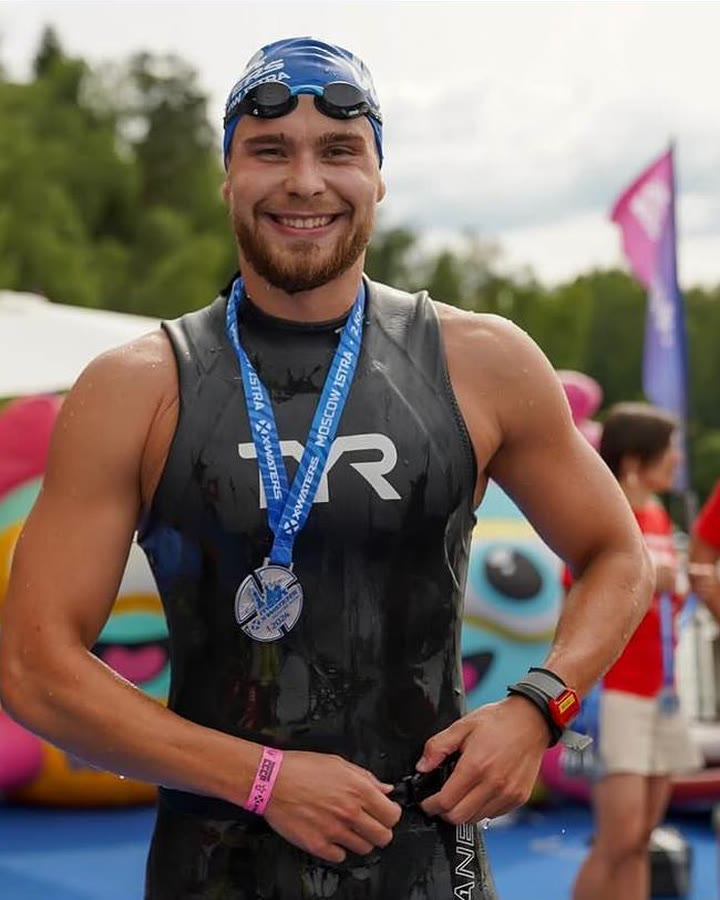
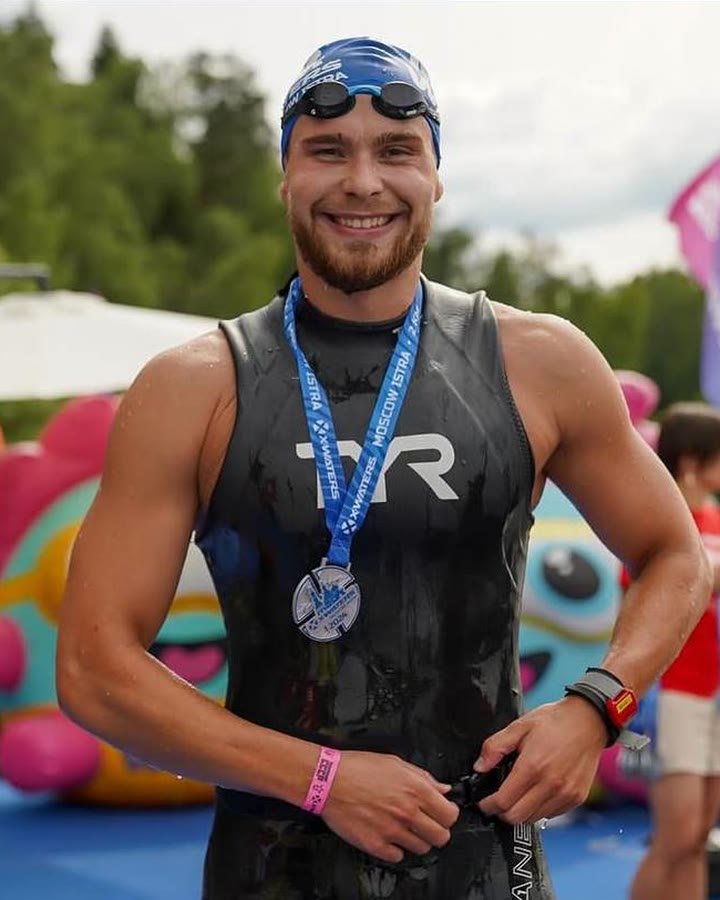
Фото: голова ровно по центру кадра

diff --git a/index.html b/index.html
@@ -20,7 +20,7 @@
   <link rel="preconnect" href="https://fonts.googleapis.com">
   <link rel="preconnect" href="https://fonts.gstatic.com" crossorigin>
   <link rel="stylesheet" href="https://fonts.googleapis.com/css2?family=Montserrat:wght@600;700&amp;display=swap">
-  <link rel="stylesheet" href="css/style.css?v=1789315581">
+  <link rel="stylesheet" href="css/style.css?v=1789319132">
   <script type="application/ld+json">
   {"@context": "https://schema.org", "@graph": [{"@type": "Person", "@id": "https://akifevav0-droid.github.io/shabarshov/#person", "name": "Анатолий Шабаршов", "jobTitle": "Тренер по плаванию", "description": "Мастер спорта по плаванию, тренер для взрослых. Групповые и персональные тренировки в Москве, подготовка к открытой воде и триатлону.", "url": "https://akifevav0-droid.github.io/shabarshov/", "image": "https://akifevav0-droid.github.io/shabarshov/img/anatoliy_hero.jpg", "sameAs": ["https://profi.ru/profile/ShabarshovAS/", "https://www.instagram.com/shabarshov_/", "https://t.me/shabarshov", "https://t.me/shabarshov_club"], "address": {"@type": "PostalAddress", "addressLocality": "Москва", "addressCountry": "RU"}, "alumniOf": ["Училище олимпийского резерва", "РГУФК (РГУФКСМиТ)"], "award": ["Мастер спорта по плаванию", "Всемирные игры Masters, Абу-Даби 2026: 2-е и 3-е места"]}, {"@type": "SportsOrganization", "@id": "https://akifevav0-droid.github.io/shabarshov/#club", "name": "SHABARSHOV swimming club", "url": "https://akifevav0-droid.github.io/shabarshov/", "founder": {"@id": "https://akifevav0-droid.github.io/shabarshov/#person"}, "areaServed": "Москва", "sport": "Плавание", "makesOffer": [{"@type": "Offer", "price": "0", "priceCurrency": "RUB", "itemOffered": {"@type": "Service", "name": "Пробная тренировка по плаванию"}}, {"@type": "Offer", "price": "13600", "priceCurrency": "RUB", "itemOffered": {"@type": "Service", "name": "Абонемент на 8 групповых тренировок"}}, {"@type": "Offer", "price": "7500", "priceCurrency": "RUB", "itemOffered": {"@type": "Service", "name": "Абонемент на 4 групповые тренировки"}}, {"@type": "Offer", "price": "2000", "priceCurrency": "RUB", "itemOffered": {"@type": "Service", "name": "Разовая групповая тренировка"}}, {"@type": "Offer", "price": "4200", "priceCurrency": "RUB", "description": "от 4 200 ₽: тренировка 3 000 ₽ и проход в бассейн", "itemOffered": {"@type": "Service", "name": "Персональная тренировка по плаванию"}}, {"@type": "Offer", "price": "3500", "priceCurrency": "RUB", "description": "за час", "itemOffered": {"@type": "Service", "name": "Тренировка на открытой воде"}}]}, {"@type": "SportsActivityLocation", "@id": "https://akifevav0-droid.github.io/shabarshov/#pool1", "name": "Бассейн СК МГТУ им. Баумана", "sport": "Плавание", "parentOrganization": {"@id": "https://akifevav0-droid.github.io/shabarshov/#club"}, "address": {"@type": "PostalAddress", "streetAddress": "Госпитальная наб., 4, стр. 1", "addressLocality": "Москва", "addressCountry": "RU"}, "openingHoursSpecification": [{"@type": "OpeningHoursSpecification", "dayOfWeek": ["Monday", "Thursday"], "opens": "19:45", "closes": "20:45"}, {"@type": "OpeningHoursSpecification", "dayOfWeek": ["Monday", "Thursday"], "opens": "20:30", "closes": "21:30"}], "description": "Группы: 19:45 средний и продвинутый уровень, 20:30 начинающий и средний, м. Электрозаводская"}, {"@type": "SportsActivityLocation", "@id": "https://akifevav0-droid.github.io/shabarshov/#pool2", "name": "Формула Воды", "sport": "Плавание", "parentOrganization": {"@id": "https://akifevav0-droid.github.io/shabarshov/#club"}, "address": {"@type": "PostalAddress", "streetAddress": "Мироновская ул., 27", "addressLocality": "Москва", "addressCountry": "RU"}, "openingHoursSpecification": [{"@type": "OpeningHoursSpecification", "dayOfWeek": ["Tuesday", "Friday"], "opens": "20:45", "closes": "21:45"}], "description": "Группа начинающего и среднего уровня, м. Семёновская"}, {"@type": "SportsActivityLocation", "@id": "https://akifevav0-droid.github.io/shabarshov/#pool3", "name": "Акватория ЗИЛ", "sport": "Плавание", "parentOrganization": {"@id": "https://akifevav0-droid.github.io/shabarshov/#club"}, "address": {"@type": "PostalAddress", "streetAddress": "Автозаводская ул., 23А к4", "addressLocality": "Москва", "addressCountry": "RU"}, "openingHoursSpecification": [{"@type": "OpeningHoursSpecification", "dayOfWeek": ["Wednesday", "Friday"], "opens": "07:45", "closes": "08:45"}], "description": "Мини-группа до 5 человек"}, {"@type": "SportsActivityLocation", "@id": "https://akifevav0-droid.github.io/shabarshov/#pool4", "name": "Лужники", "sport": "Плавание", "parentOrganization": {"@id": "https://akifevav0-droid.github.io/shabarshov/#club"}, "address": {"@type": "PostalAddress", "streetAddress": "Лужники", "addressLocality": "Москва", "addressCountry": "RU"}, "description": "Персональные тренировки по договорённости, м. Спортивная"}, {"@type": "FAQPage", "mainEntity": [{"@type": "Question", "name": "Я не умею плавать. С чего начать?", "acceptedAnswer": {"@type": "Answer", "text": "С бесплатной пробной тренировки. За первое занятие вы подружитесь с водой и станете увереннее. Дальше подберём формат: группу по уровню или персональные занятия."}}, {"@type": "Question", "name": "Что взять на первую тренировку?", "acceptedAnswer": {"@type": "Answer", "text": "Справку для бассейна (как получить, расскажу при записи), купальник или плавки, шапочку, очки, сланцы, полотенце."}}, {"@type": "Question", "name": "Как проходит тренировка?", "acceptedAnswer": {"@type": "Answer", "text": "Час в воде: разминка, основное задание, заминка. Я в воде рядом и показываю упражнения сам."}}, {"@type": "Question", "name": "Что, если пропущу занятие?", "acceptedAnswer": {"@type": "Answer", "text": "Предупредите заранее, и найдём, как отработать. Пропуск без предупреждения не переносится."}}]}]}
   </script>
@@ -194,6 +194,6 @@
   </div>
 </div>
 
-<script src="js/main.js?v=1789315581" defer></script>
+<script src="js/main.js?v=1789319132" defer></script>
 </body>
 </html>

diff --git a/politika.html b/politika.html
@@ -6,7 +6,7 @@
   <title>Политика конфиденциальности — Анатолий Шабаршов, тренер по плаванию</title>
   <meta name="robots" content="noindex, follow">
   <link rel="icon" href="img/favicon.svg" type="image/svg+xml">
-  <link rel="stylesheet" href="css/style.css?v=1789315581">
+  <link rel="stylesheet" href="css/style.css?v=1789319132">
   <style>
     .doc { max-width: 680px; margin: 0 auto; padding: 56px 22px 88px; }
     .doc h1 { font-size: clamp(28px, 4vw, 40px); margin-bottom: 8px; }
